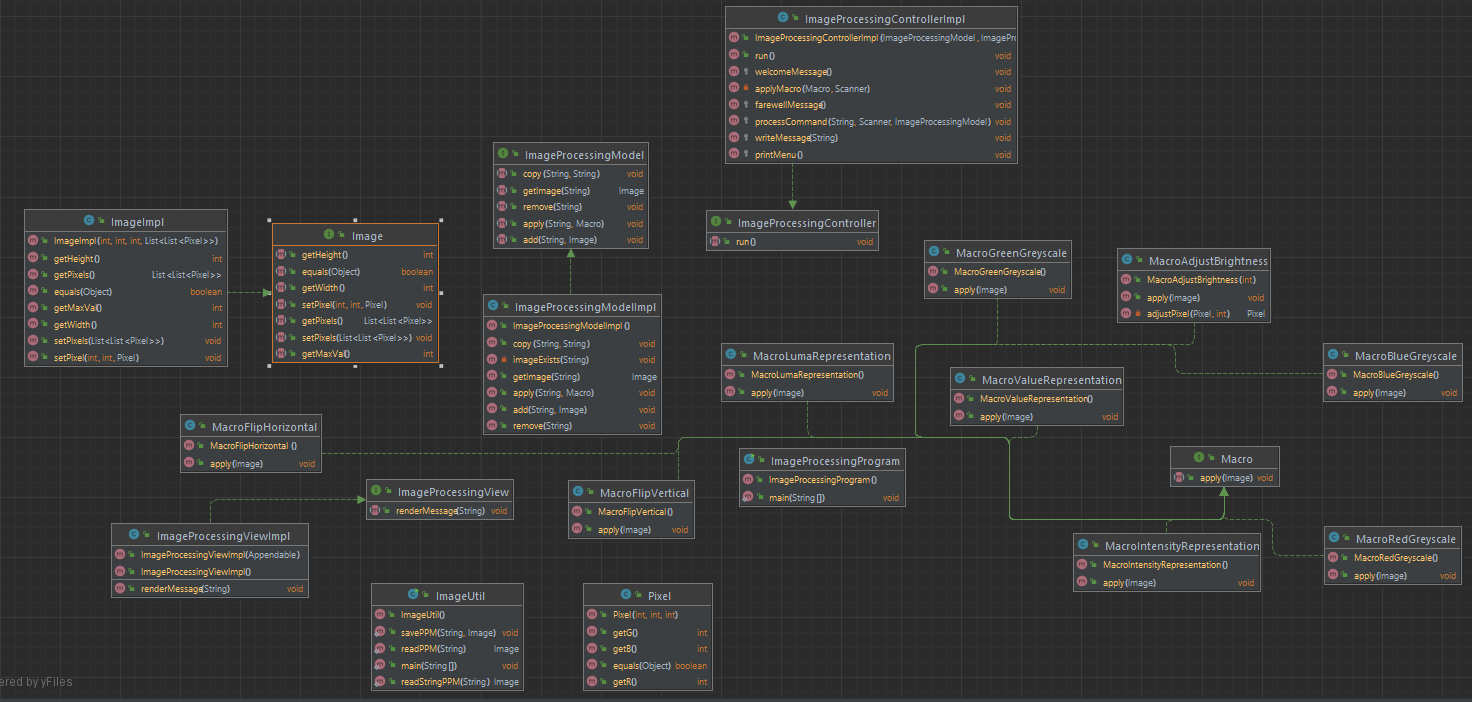
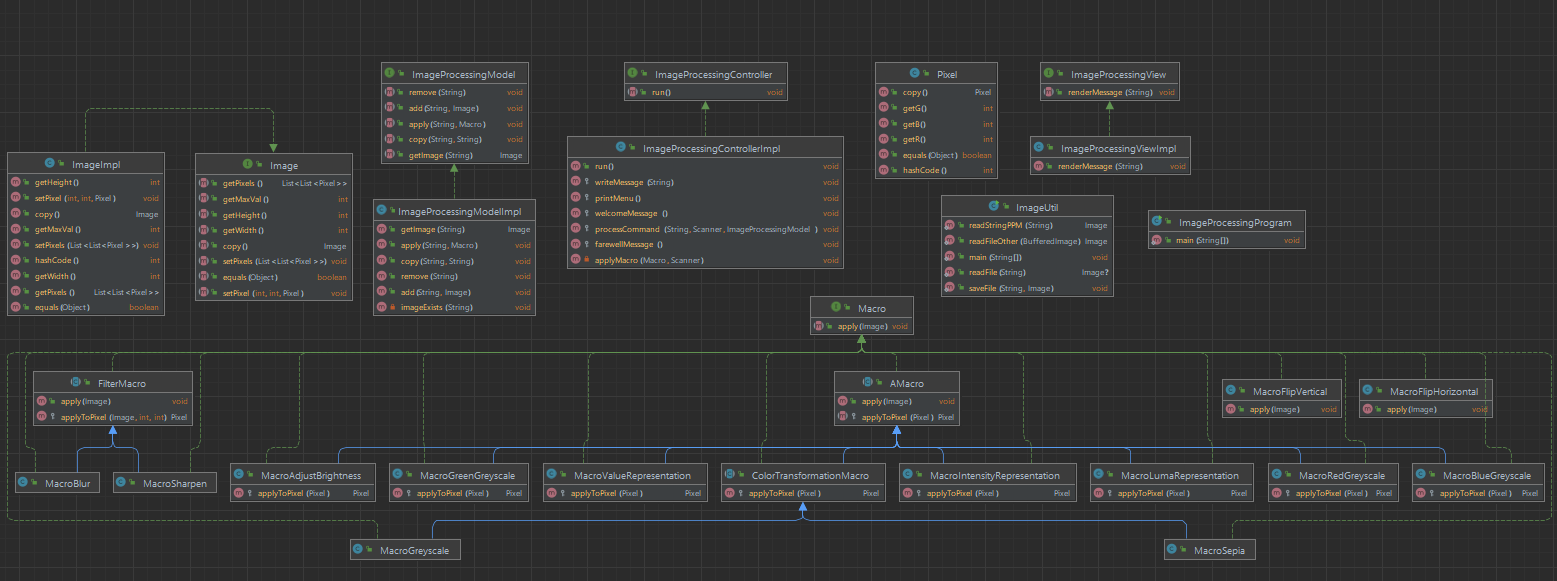
useme readme classdiagram

diff --git a/USEME.md b/USEME.md
@@ -1,0 +1,44 @@
+# List of Commands: 
+## Command-line arguments:
+- `-file <script-path.txt>`
+    - Loads script file, executes commands in the file, then quits program.
+    - i.e. `java -jar ImageProgessingProgram.jar -file exampleScript.txt`
+## General:
+- `menu`
+    - prints the menu
+- `quit` or `q`
+    - quits program
+- `load <image-path> <image-name>`
+    - loads and image from the given path and names it
+- `save <image-path> <image-name>`
+    - saves the image with that name at the specified path. Saves the image as the designated format i.e. `save img.png image1` saves the image as a png. Support PPM, png, jpg, bmp.
+    - Only images previously loaded can be saved.
+## Image Manipulation:
+Note: Images may only be manipulated if they have already been loaded in (see above)
+- `horizontal-flip <image-name> <dest-image-name>`
+    - flips `<image-name>` horizontally and stores it as `<dest-image-name>`
+- `vertical-flip <image-name> <dest-image-name>`
+    - flips `<image-name>` vertical and stores it as `<dest-image-name>`
+- `brighten <increment> <image-name> <dest-image-name>`
+    - brightens `<image-name>` by `<increment>` amount and stores it as `<dest-image-name>`
+    - if `<increment>` is a negative value, the image darkens
+- `red-component <image-name> <dest-image-name>`
+    - converts `<image-name>` to greyscale with the red channel of each pixel and stores it as `<dest-image-name>`
+- `blue-component <image-name> <dest-image-name>`
+    - converts `<image-name>` to greyscale with the blue channel of each pixel and stores it as `<dest-image-name>`
+- `green-component <image-name> <dest-image-name>`
+    - converts `<image-name>` to greyscale with the green channel of each pixel and stores it as `<dest-image-name>`
+- `value-representation <image-name> <dest-image-name>`
+    - converts `<image-name>` to greyscale with the maximum value of each pixel and stores it as `<dest-image-name>`
+- `luma-representation <image-name> <dest-image-name>`
+    - converts `<image-name>` to greyscale with the luma value of each pixel and stores it as `<dest-image-name>`
+- `intensity-representation <image-name> <dest-image-name>`
+    - converts `<image-name>` to greyscale with the average value of each pixel and stores it as `<dest-image-name>`
+- `blur <image-name> <dest-image-name>`
+    - blurs `<image-name>` and stores it as `<dest-image-name>`
+- `sharpen <image-name> <dest-image-name>`
+    - sharpens `<image-name>` and stores it as `<dest-image-name>`
+- `sepia <image-name> <dest-image-name>`
+    - applies sepia filter to `<image-name>` and stores it as `<dest-image-name>`
+- `greyscale <image-name> <dest-image-name>`
+    - converts `<image-name>` to greyscale with the luma value of each pixel and stores it as `<dest-image-name>`

diff --git a/README.md b/README.md
@@ -1,10 +1,10 @@
 # ImageProcessing
-Joshua Cheng and Evan Tran CS3500 HW5
+Joshua Cheng and Evan Tran CS3500 HW6
 
 ## To Run:
-1. ImageProgessingProgram.java main method with no arguments. Instructions are printed out.
-2. ImageProgessingProgram.java main method with argument `"path/to/script.txt"` and optional argument `"path/to/output.txt"` containing path to text file containing a list of commands separated by a newline, and optionally a path to a text file for the outputs to be stored in. If no output file is supplied, the default `"output.txt"` is used. See example script in `exampleScript.txt` included.
-Example: ```ImageProgessingProgram.java exampleScript.txt output.txt``` (Image outputs are in res/examples)
+1. ImageProgessingProgram.jar with no arguments. Instructions are printed out.
+2. ImageProgessingProgram.jar with argument `"-file path/to/script.txt"` containing path to text file containing a list of commands separated by a newline. See example script in `exampleScript.txt` included.
+Example: ```java -jar ImageProgessingProgram.jar -file exampleScript.txt``` (Image outputs are in res/examples)
 
 ---------------------------
 ## Model -- ImageProcessingModel.java
@@ -29,7 +29,11 @@ Example: ```ImageProgessingProgram.java exampleScript.txt output.txt``` (Image o
     - IntensityRepresentation
     - LumaRepresentation
     - ValueRepresentation
-- ImageUtil.java: read and store PPM files
+    - Blur
+    - Sharpen
+    - Greyscale
+    - Sepia
+- ImageUtil.java: read and store PPM, png, bmp, jpg files
 - Image.java: represents an image. Stores its dimensions and pixel values.
 - Pixel.java: represents a single pixel. Has RGB values.
 
